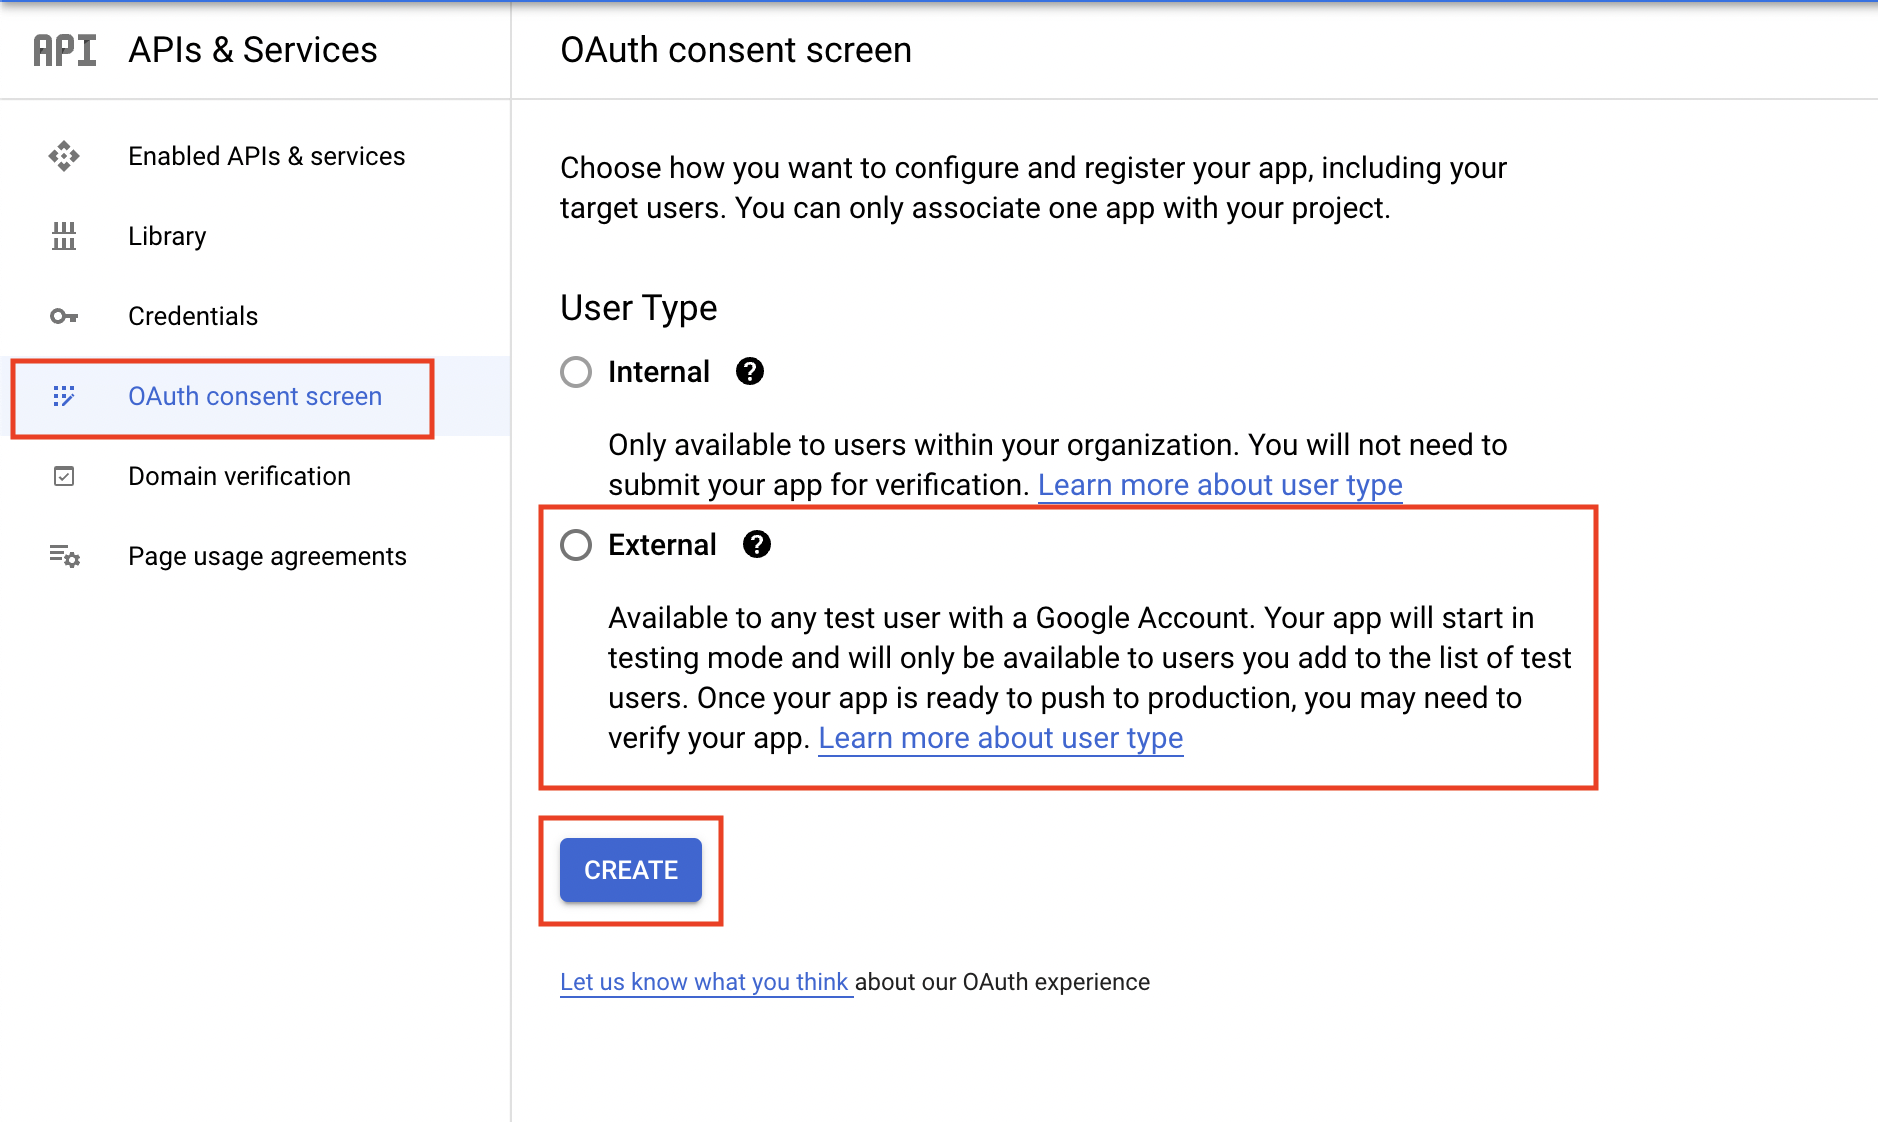
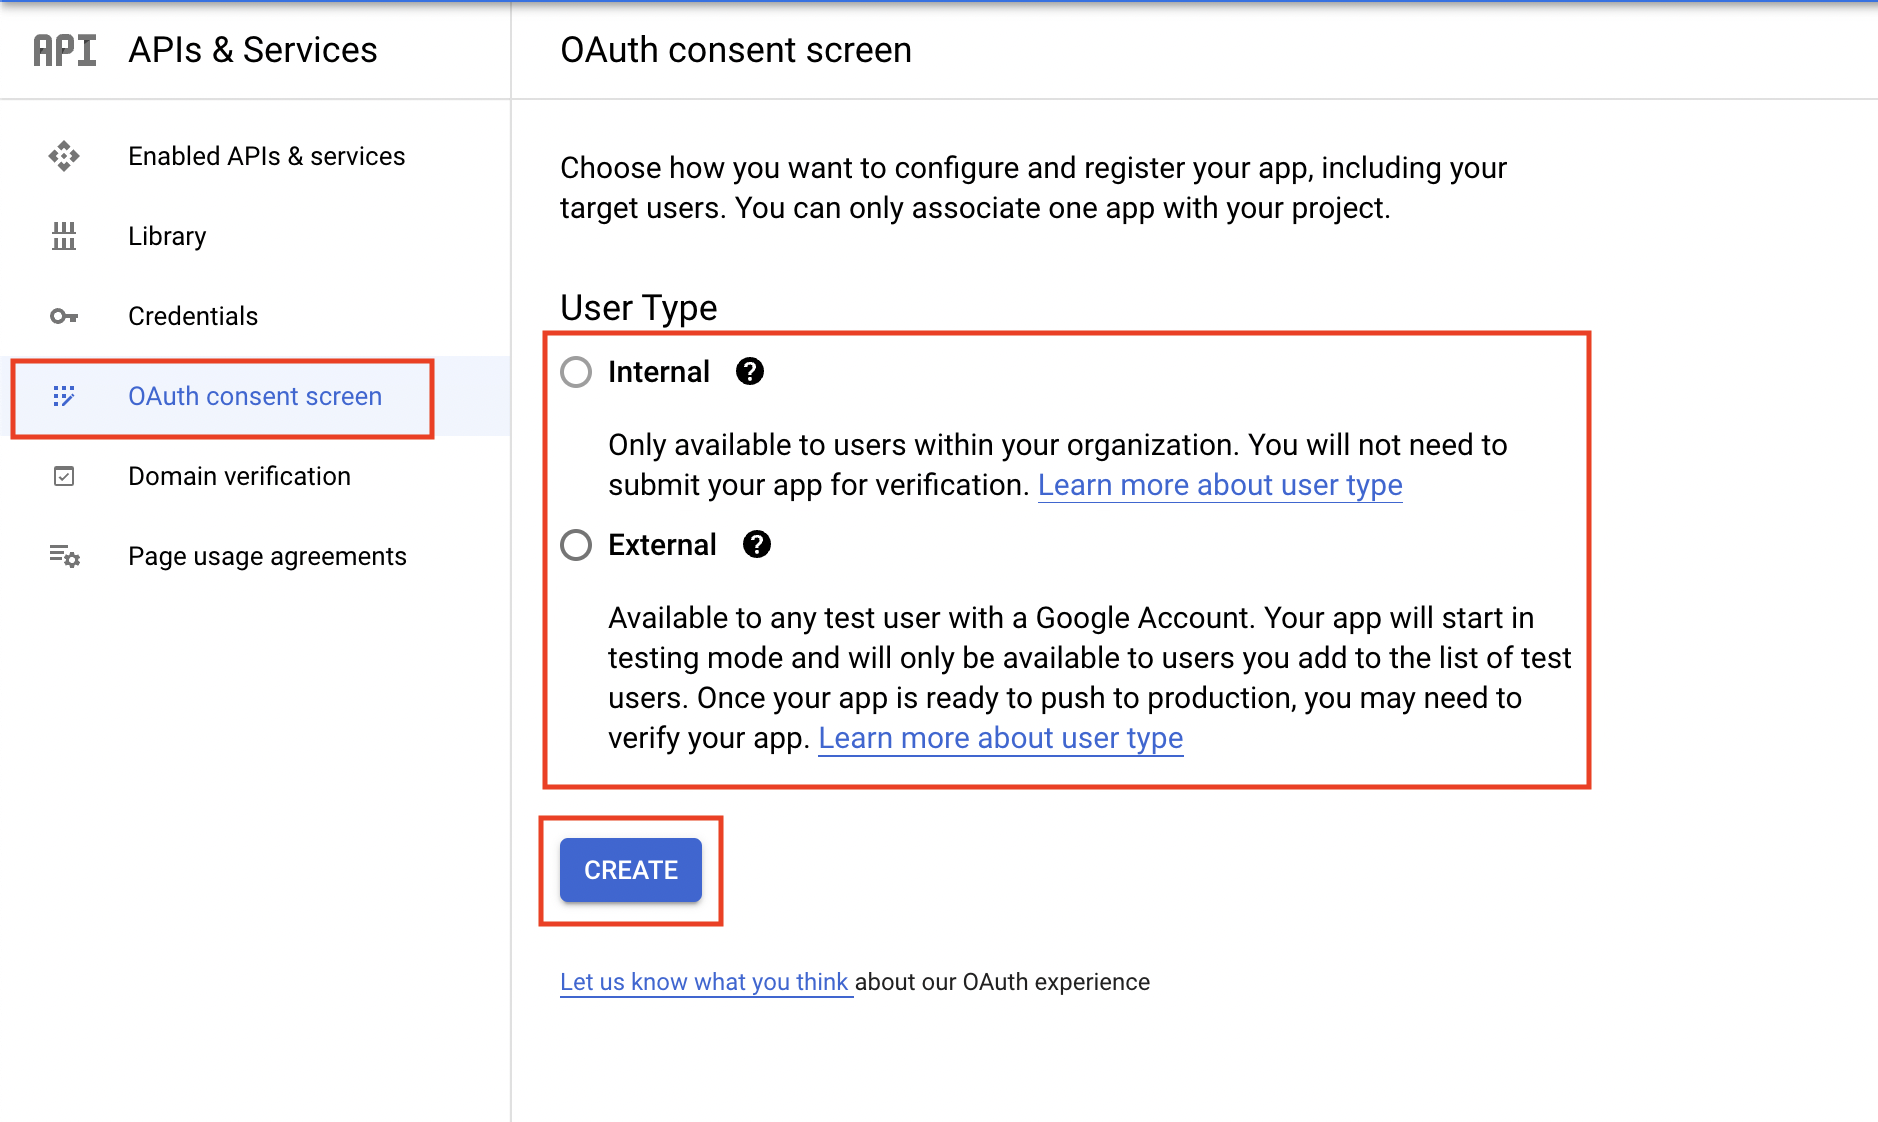
oauth2: Update Wording and Images
This updates the wording and some images in the OAuth2 docs.

Changed region(s): [[0.278, 0.2807, 0.8647, 0.7175]]

diff --git a/OAuth2/Google Authorization Guide.rst b/OAuth2/Google Authorization Guide.rst
@@ -48,7 +48,7 @@ Click the **Gmail API** result and click the **Enable** button to enable Gmail A
 .. image:: ../_static/images/g_oauth2_autho_8.png
   :alt: Gmail API Enable
 
-Now we can configure the OAuth consent screen by clicking the **OAuth consent screen** tab. Here you can choose the **User Type** of **Internal** or **External**. If you use a personal Gmail account you will be limited to **External** only. Once you select your User Type click **Create**.
+Now we can configure the OAuth consent screen by clicking the **OAuth consent screen** tab. Here you can choose the **User Type** of **Internal** (*preferred*) or **External**. If you do not have a Google Workspace account you will be limited to **External** only. Once you select your User Type click **Create**.
 
 .. image:: ../_static/images/g_oauth2_autho_9.png
   :alt: OAuth2 consent screen

diff --git a/OAuth2/Google Authentication (SSO) Guide.rst b/OAuth2/Google Authentication (SSO) Guide.rst
@@ -72,7 +72,7 @@ Click 'OAuth consent screen'
 
 |br|
 
-Choose your target users and click 'Create'
+Here you will select a **User Type** of **Internal** or **External**. If you do not have a Google Workspace account you will be limited to **External** only. Please note, if you select **Internal** only users within your Organization will be able to authenticate. If you select **External** anyone with a Google account can authenticate, however, the Project will initially be in "Testing Mode". Once you select your User Type click **Create**.
 
 .. image:: ../_static/images/oauth-authentication/oauth52_audience.png
   :alt: oauth52_audience
